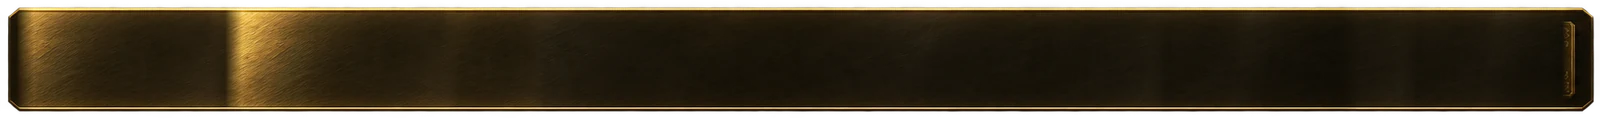
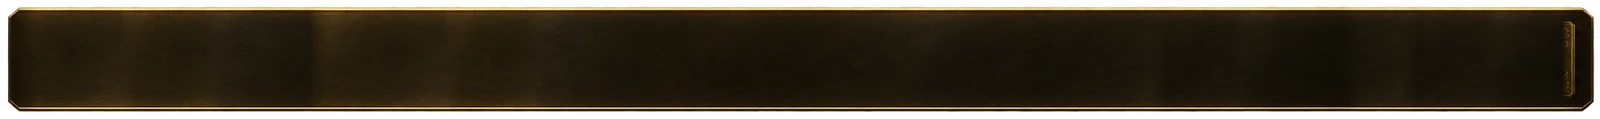
Ranking rows: the streak taken off the metal (it sat under the name); a wide soft light past the name instead

Changed region(s): [[0.125, 0.0504, 0.2188, 0.9076], [0.0, 0.0756, 0.0938, 0.9076]]

diff --git a/site/assets/rating.css b/site/assets/rating.css
@@ -53,9 +53,11 @@ canvas.rankfx { position: fixed; inset: 0; width: 100vw; height: 100vh; z-index:
 .rrow.p2, .rrow.p2:hover { background-image: url(rating/bar-silver.webp); }
 .rrow.p3, .rrow.p3:hover { background-image: url(rating/bar-bronze.webp); }
 .rrow.p1:hover, .rrow.p2:hover, .rrow.p3:hover { filter: brightness(1.1); }
-.rrow.rest { opacity: .9; }
-.rrow > * { position: relative; }
-.rrow { font-variant-numeric: lining-nums tabular-nums; }
+/* light on the metal: a wide, soft glow past the name that fades out on both sides, no edge to it */
+.rrow.p1::before, .rrow.p2::before, .rrow.p3::before { content: ''; position: absolute; inset: 3px 6px; pointer-events: none; mix-blend-mode: screen;
+  background: radial-gradient(ellipse 30% 120% at 44% 45%, rgba(255,255,255,.22), rgba(255,255,255,.08) 55%, transparent 100%); }
+.rrow.p1::before { background: radial-gradient(ellipse 30% 120% at 44% 45%, rgba(255,226,150,.26), rgba(255,214,120,.09) 55%, transparent 100%); }
+.rrow.p3::before { background: radial-gradient(ellipse 30% 120% at 44% 45%, rgba(255,190,140,.22), rgba(255,170,110,.08) 55%, transparent 100%); }
 
 /* the place */
 .pl { display: inline-flex; align-items: center; justify-content: center; min-width: 44px; font: 700 28px var(--serif); color: #fff; }
